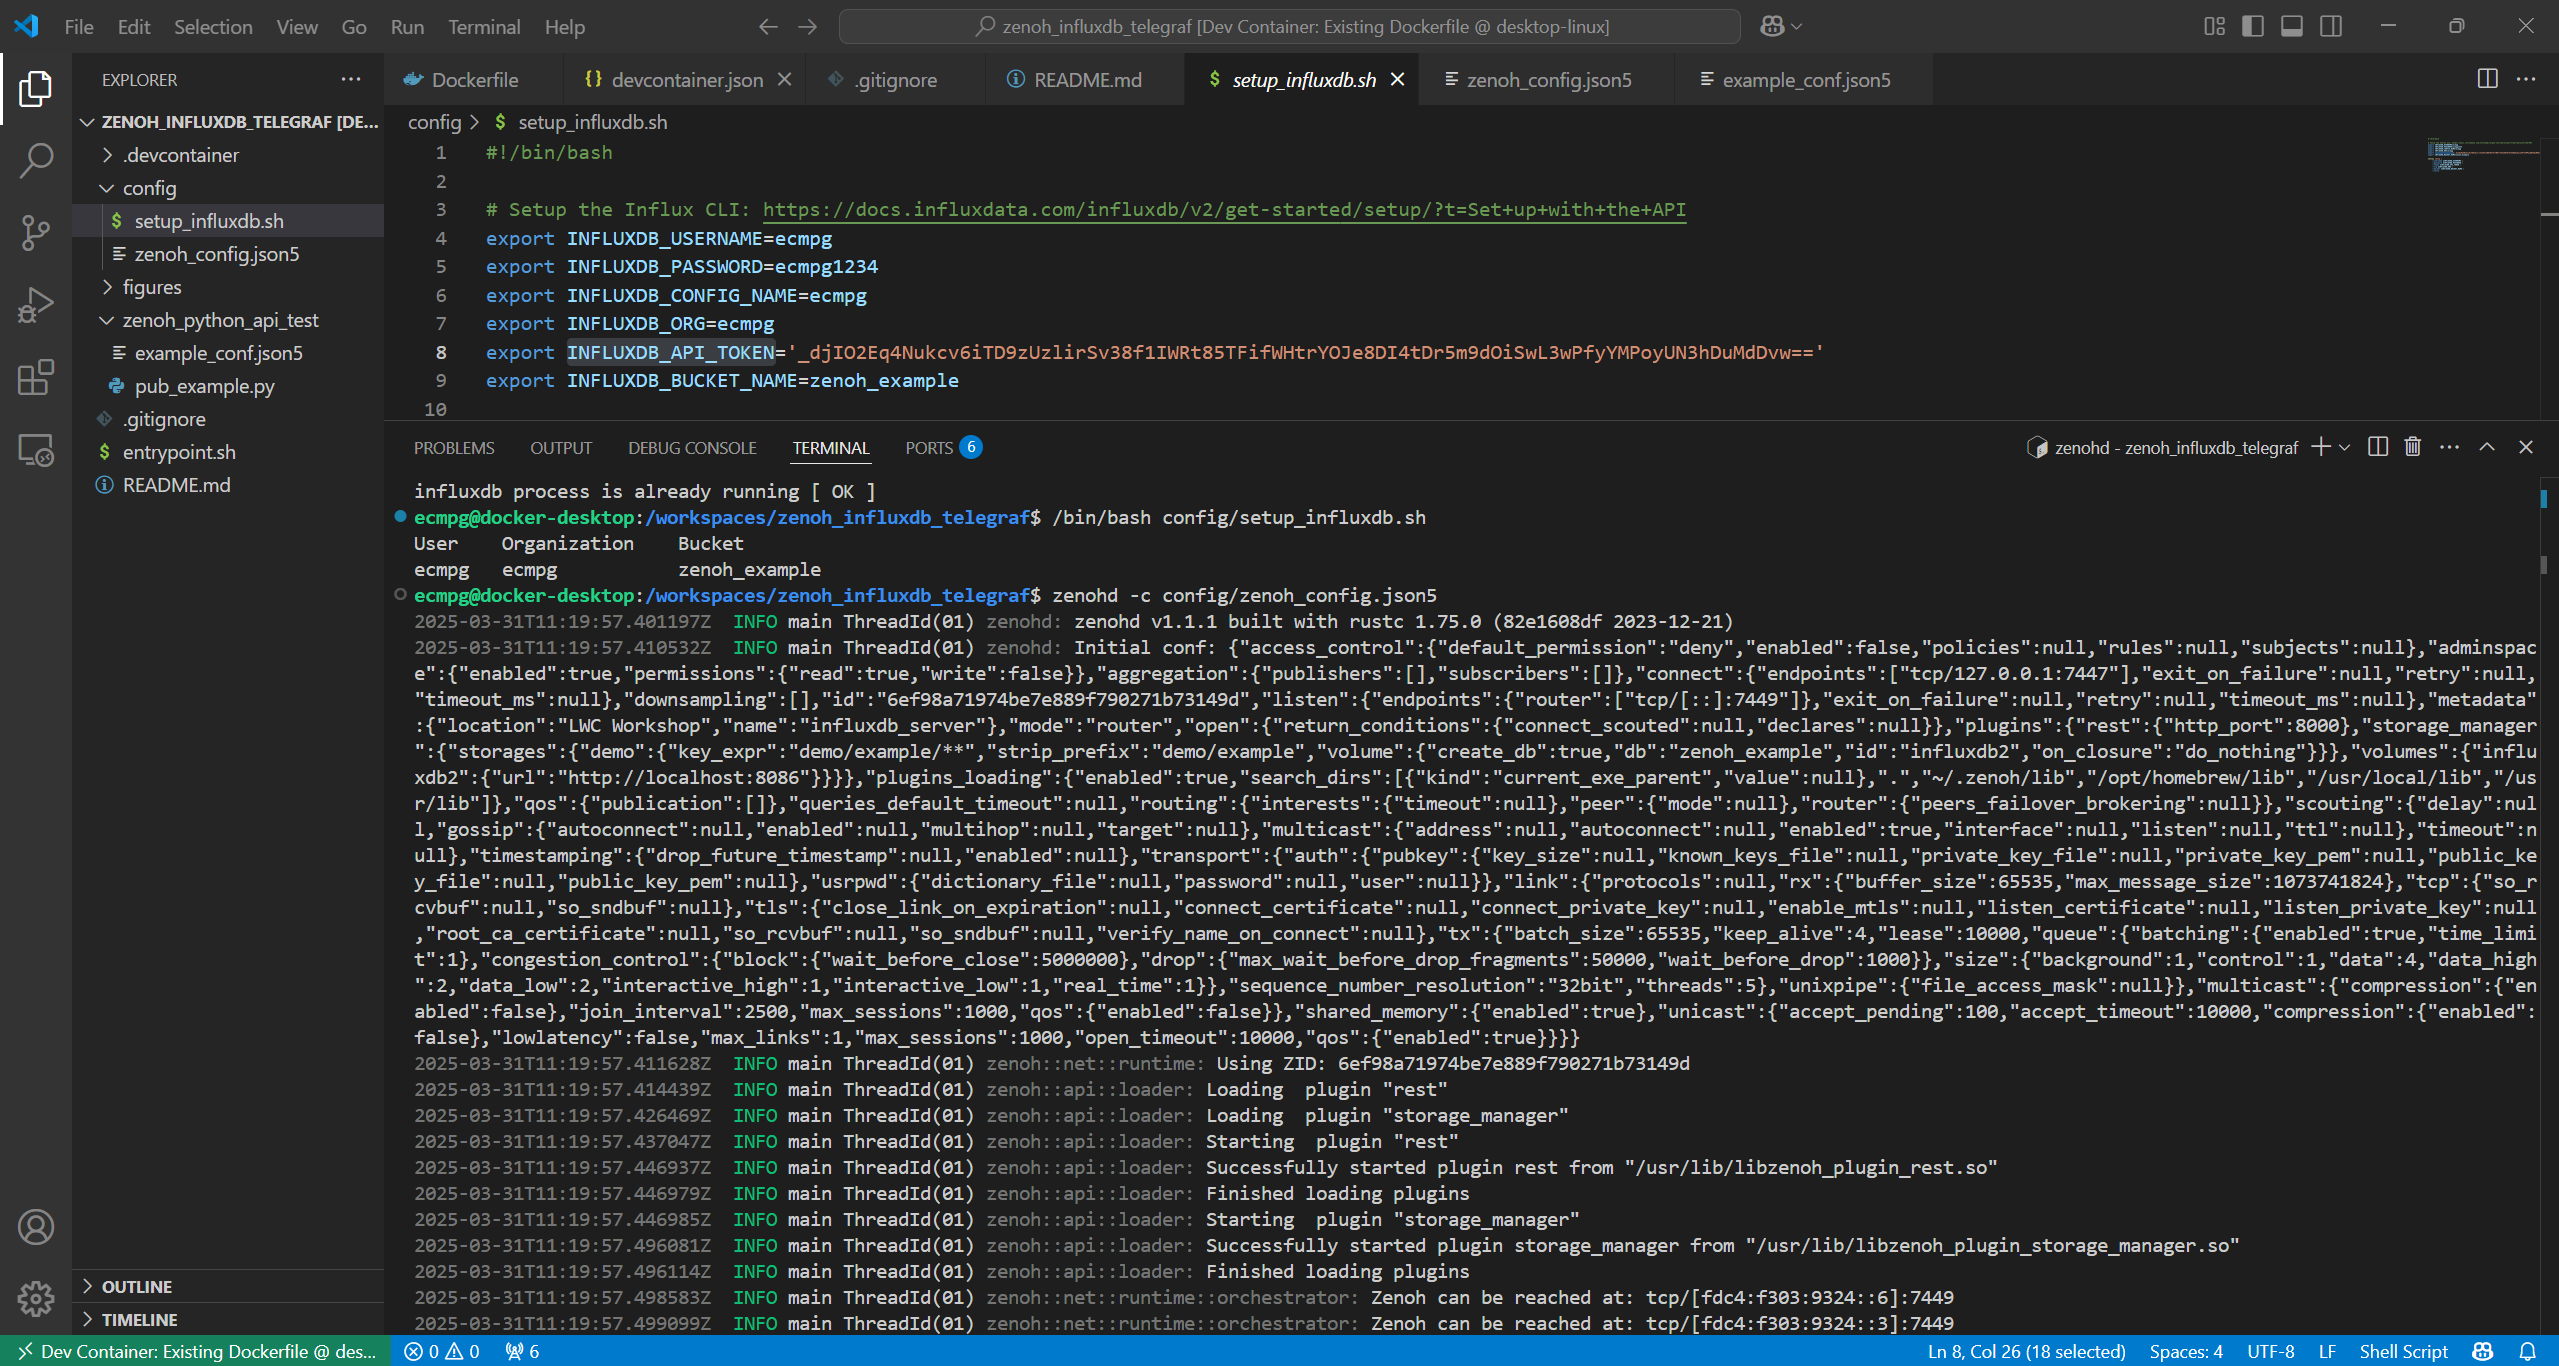
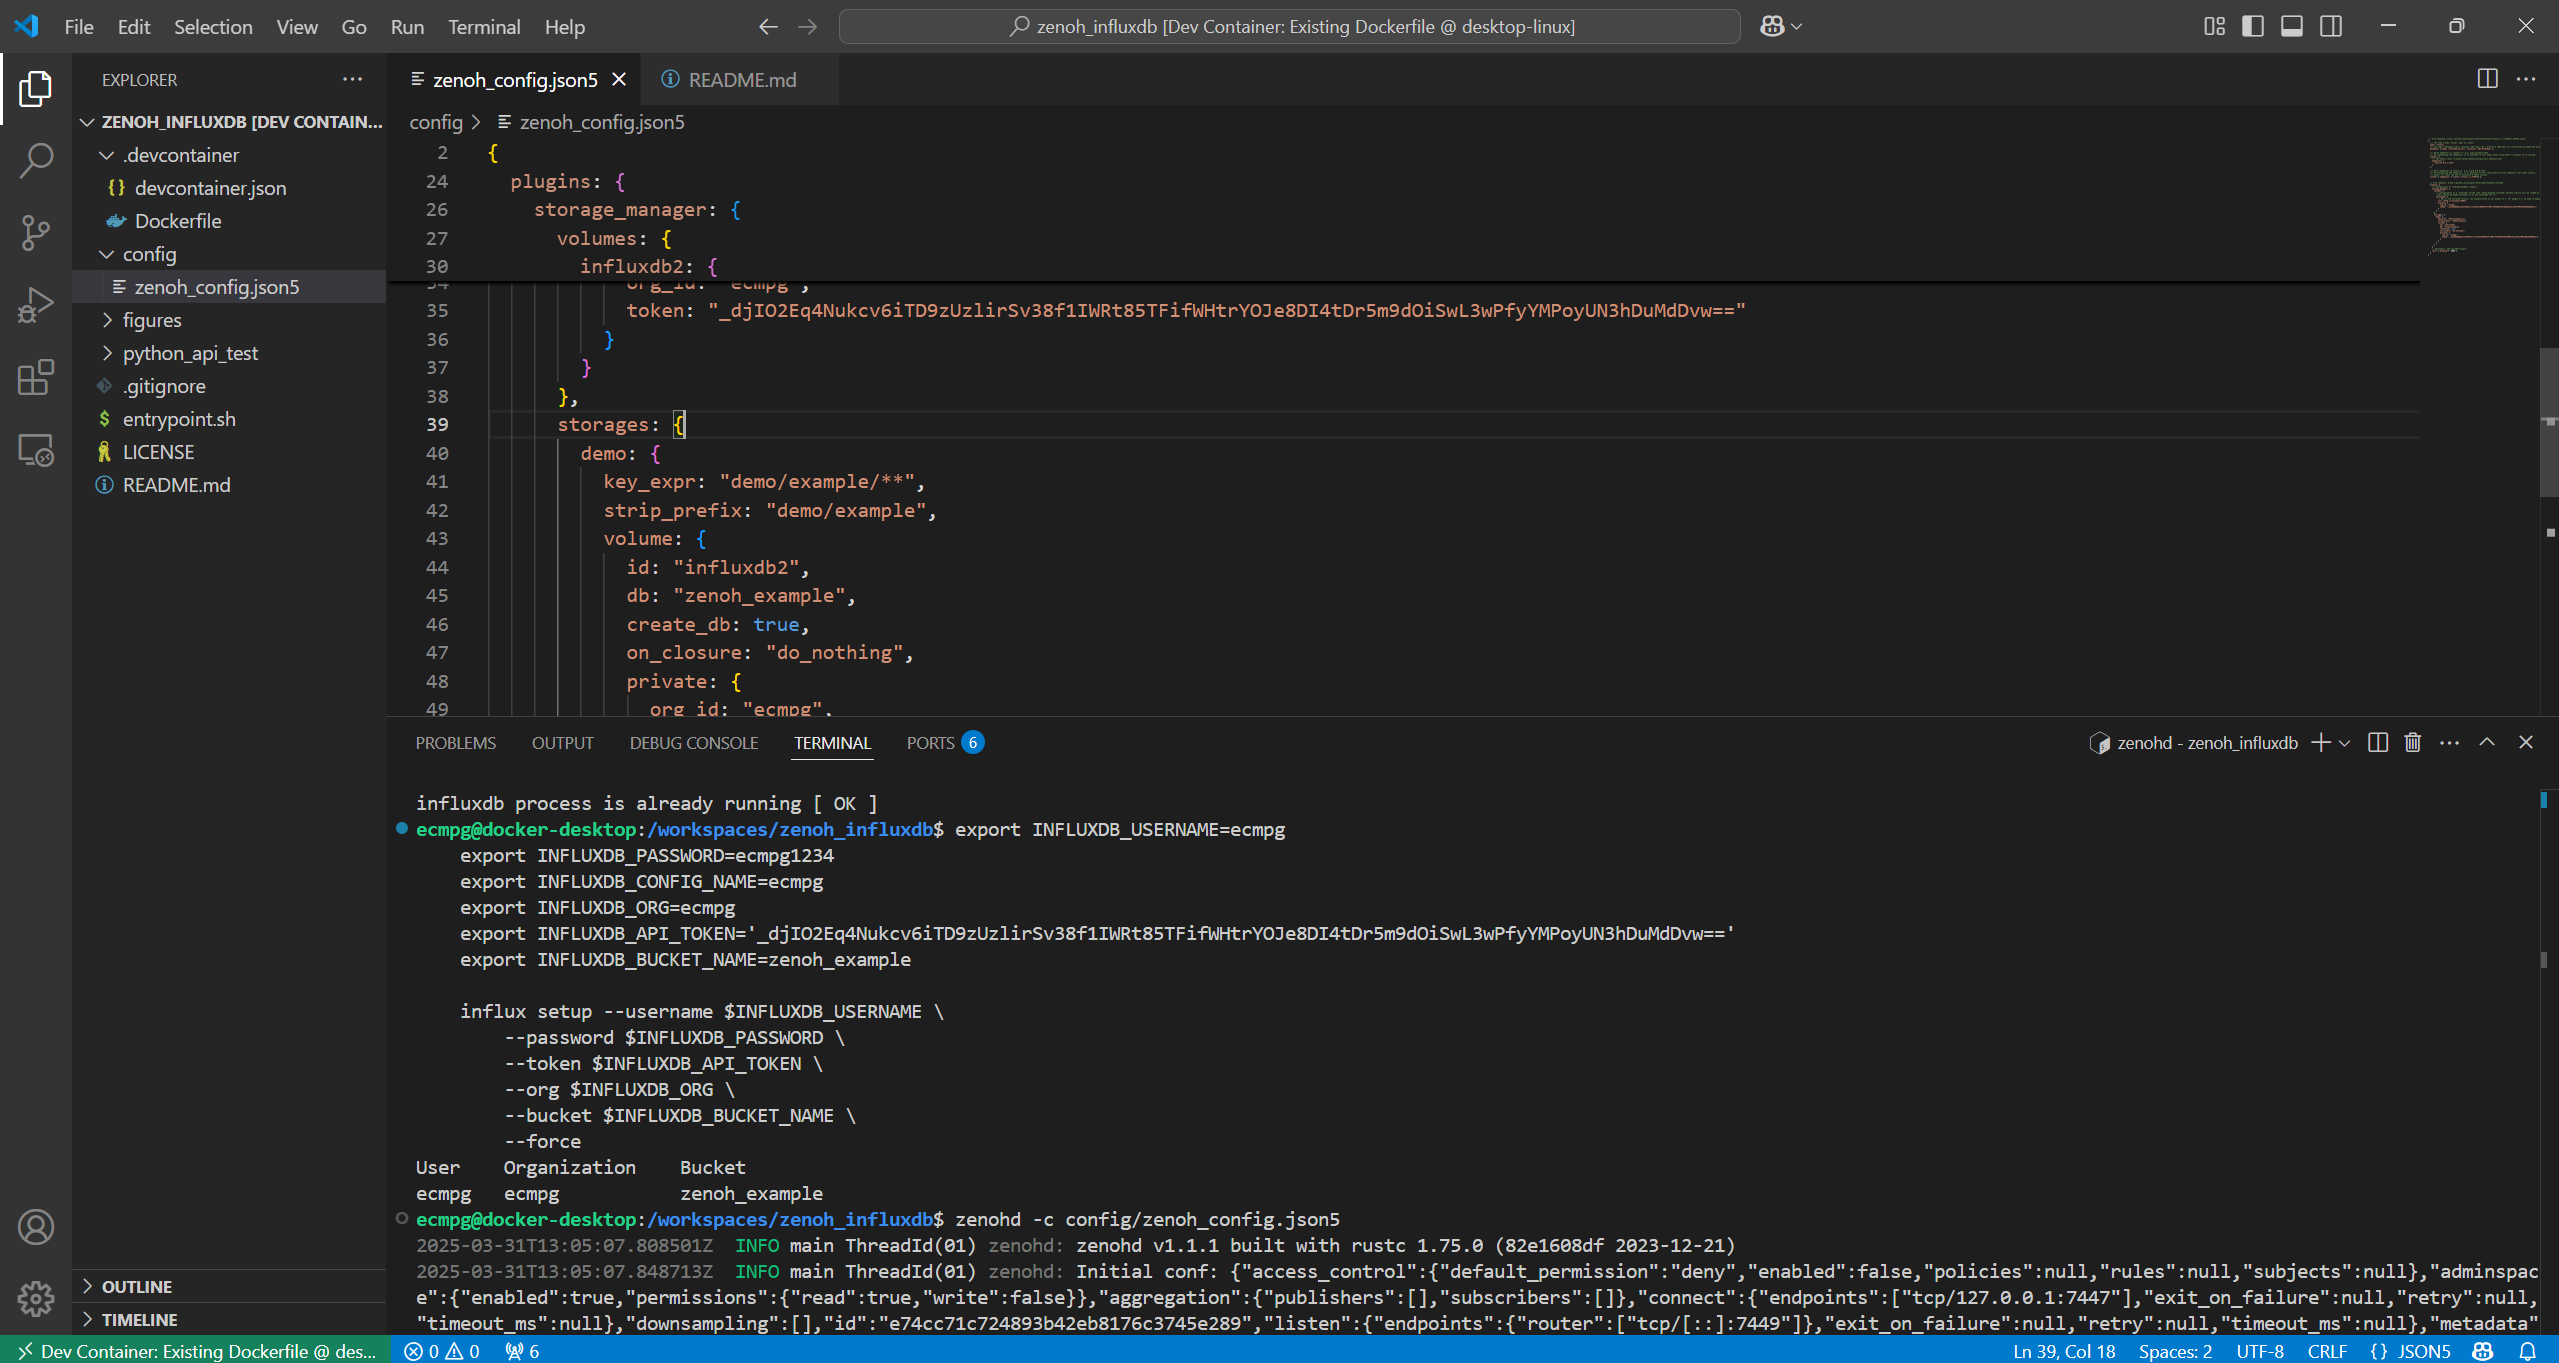
update

diff --git a/README.md b/README.md
@@ -14,20 +14,29 @@ Sample Pub Sub of sensor data to InfluxDB and Telegraf stack using Zenoh Python 
     code zenoh_influxdb_telegraf
     ```
 
-2. Check the InfluxDB config parameters in ```config\setup_influxdb.sh```. NB if you edit the token then remember to copy the new token value to lines 30 and 54 of ```config\zenoh_config.json5```.
-
-3. Reopen in Container
-
+2. Reopen in Container
 
     https://github.com/user-attachments/assets/8d09056a-3790-4e9a-9226-dc3e4273d62a
 
 
-4. Open new terminal in the Devcontainer and setup InfluxDB
+3. Open new terminal in the Devcontainer and setup InfluxDB. NB if you edit the token then remember to copy the new token value to lines 30 and 50 of ```config\zenoh_config.json5```.
     ```sh
-    /bin/bash config/setup_influxdb.sh
+    export INFLUXDB_USERNAME=ecmpg
+    export INFLUXDB_PASSWORD=ecmpg1234
+    export INFLUXDB_CONFIG_NAME=ecmpg
+    export INFLUXDB_ORG=ecmpg
+    export INFLUXDB_API_TOKEN='_djIO2Eq4Nukcv6iTD9zUzlirSv38f1IWRt85TFifWHtrYOJe8DI4tDr5m9dOiSwL3wPfyYMPoyUN3hDuMdDvw=='
+    export INFLUXDB_BUCKET_NAME=zenoh_example
+
+    influx setup --username $INFLUXDB_USERNAME \
+        --password $INFLUXDB_PASSWORD \
+        --token $INFLUXDB_API_TOKEN \
+        --org $INFLUXDB_ORG \
+        --bucket $INFLUXDB_BUCKET_NAME \
+        --force
     ```
 
-5. Run Zenoh router on from the Devcontainer terminal
+4. Run Zenoh router on from the Devcontainer terminal
     ```sh
     zenohd -c config/zenoh_config.json5
     ```
